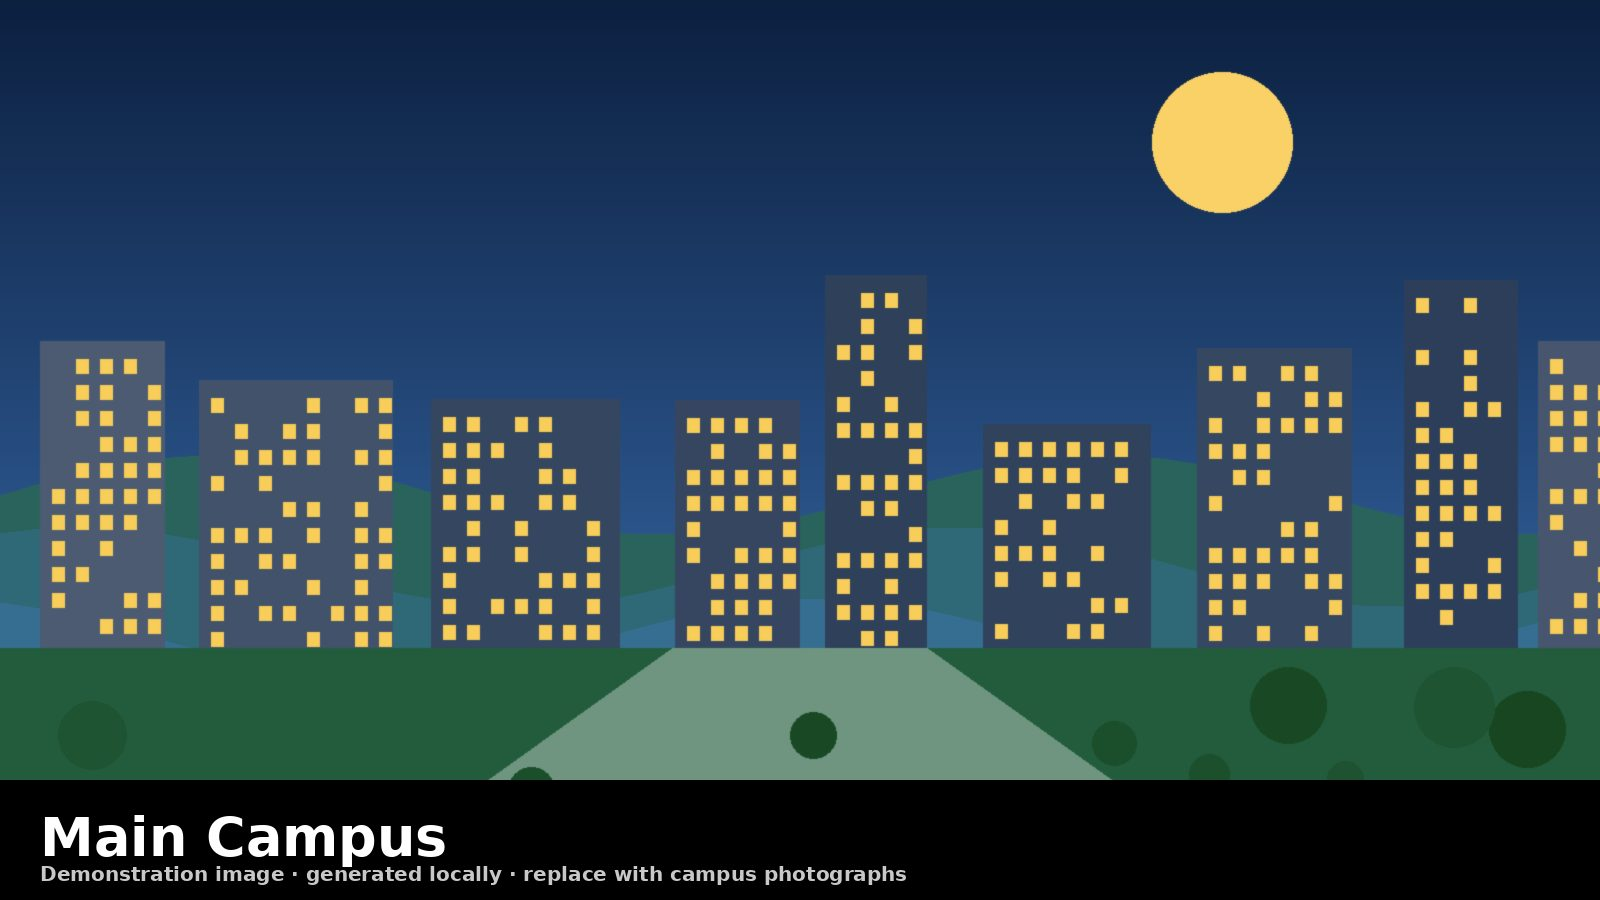
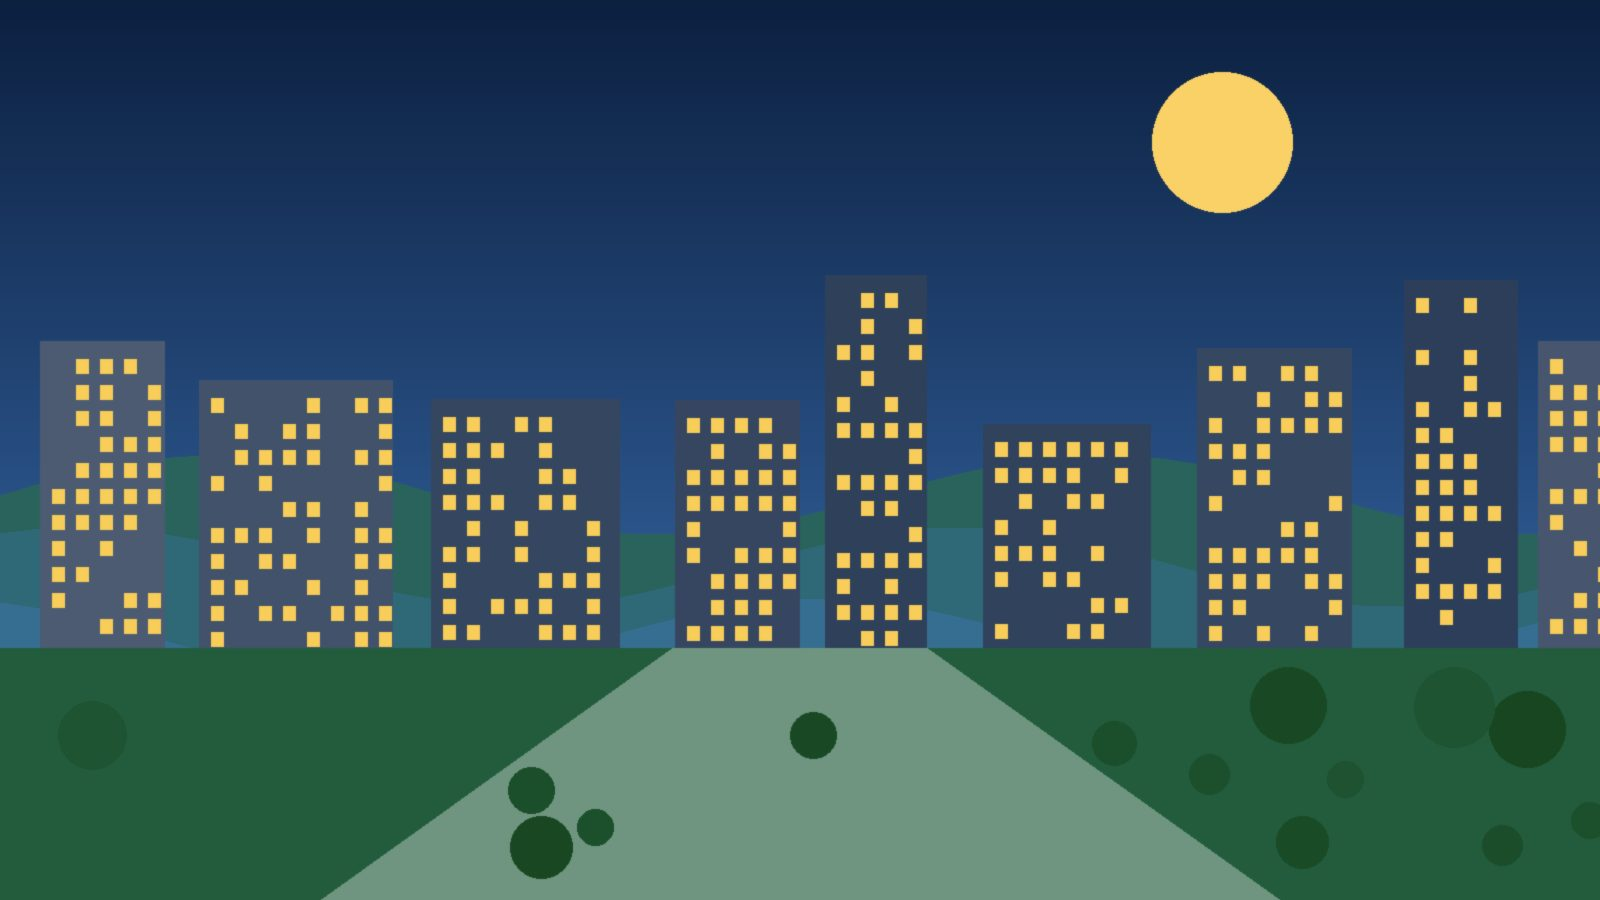
style: hero background image without caption band

Changed region(s): [[0.0, 0.84, 1.0, 1.0]]

diff --git a/assets/generate_images.py b/assets/generate_images.py
@@ -55,7 +55,7 @@ def _font(size):
     return ImageFont.load_default()
 
 
-def scene(key, title, top, bottom, ground, accent, w=1600, h=900, seed=1):
+def scene(key, title, top, bottom, ground, accent, w=1600, h=900, seed=1, caption=True):
     rng = random.Random(seed)
     img = _gradient(w, h, top, bottom)
     d = ImageDraw.Draw(img)
@@ -86,6 +86,8 @@ def scene(key, title, top, bottom, ground, accent, w=1600, h=900, seed=1):
         d.ellipse((tx - r, ty - r, tx + r, ty + r), fill=_lerp(ground, (20, 60, 20), rng.uniform(0.2, 0.7)))
     img = img.filter(ImageFilter.GaussianBlur(0.6))
     d = ImageDraw.Draw(img)
+    if not caption:
+        return img
     d.rectangle((0, h - 120, w, h), fill=(0, 0, 0))
     d.text((40, h - 95), title, font=_font(54), fill=(255, 255, 255))
     d.text((40, h - 38), "Demonstration image · generated locally · replace with campus photographs", font=_font(20), fill=(200, 200, 200))
@@ -107,7 +109,7 @@ def program_card(key, title, top, bottom, w=900, h=560):
 def main():
     OUT.mkdir(parents=True, exist_ok=True)
     for i, (k, (title, top, bottom, ground, accent)) in enumerate(SCENES.items()):
-        scene(k, title, top, bottom, ground, accent, seed=i + 1).save(OUT / f"{k}.jpg", quality=82, optimize=True)
+        scene(k, title, top, bottom, ground, accent, seed=i + 1, caption=(k != "hero")).save(OUT / f"{k}.jpg", quality=82, optimize=True)
     for k, (title, top, bottom) in PROGRAMS.items():
         program_card(k, title, top, bottom).save(OUT / f"program_{k}.jpg", quality=82, optimize=True)
     # logo
